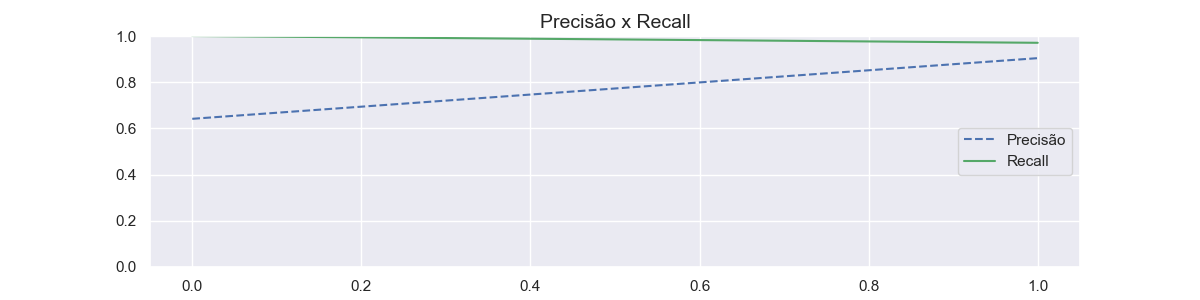
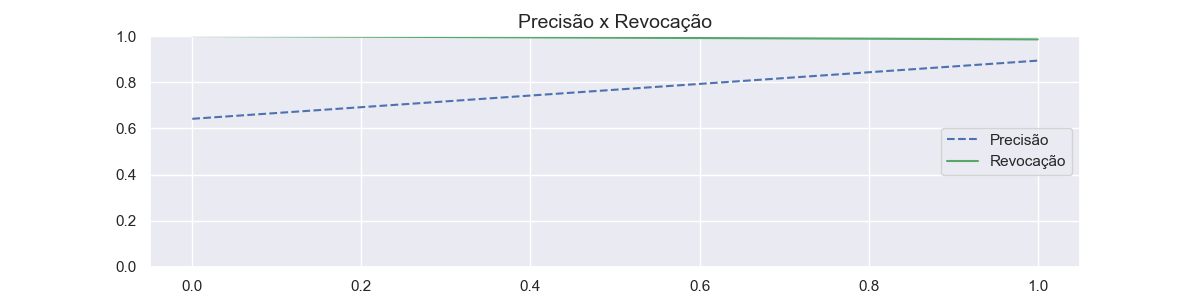
add R graphs for ep1

diff --git a/EP3/MainEP3.py b/EP3/MainEP3.py
@@ -74,8 +74,8 @@ def init_mlp(neuronio, taxa, epoca, early_stopping=False):
     predictions = mlp_model.predict(test_df)
     print("RESULTADOS:\n")
     print(predictions)
-    accuracy = metrics.accuracy_score(test_targets, predictions)
-    print(f'ACURACIA: {accuracy}\n')
+    # accuracy = metrics.accuracy_score(test_targets, predictions)
+    # print(f'ACURACIA: {accuracy}\n')
 
     #sys.stdout.close()
     return mlp_model
@@ -94,8 +94,8 @@ def generate_final_graphs(predictions):
     sns.heatmap(metrics.confusion_matrix(test_targets, predictions), annot=True,
                 ax=ax, fmt='d', cmap='Reds')
     ax.set_title("Matriz de Confusão", fontsize=18)
-    ax.set_ylabel("True label")
-    ax.set_xlabel("Predicted Label")
+    ax.set_ylabel("Rótulo Verdadeiro")
+    ax.set_xlabel("Rótulo Previsto")
     plt.tight_layout()
     plt.savefig(f"results\\graphs\\best_mlp_confusion_matrix.png")
 
@@ -103,17 +103,17 @@ def generate_final_graphs(predictions):
     precisions, recalls, thresholds = metrics.precision_recall_curve(test_targets, predictions)
     fig2, ax2 = plt.subplots(figsize=(12, 3))
     plt.plot(thresholds, precisions[:-1], 'b--', label='Precisão')
-    plt.plot(thresholds, recalls[:-1], 'g-', label='Recall')
-    plt.xlabel('Threshold')
+    plt.plot(thresholds, recalls[:-1], 'g-', label='Revocação')
+    plt.xlabel('Limiar de Decisão')
     plt.legend(loc='center right')
     plt.ylim([0, 1])
-    plt.title('Precisão x Recall', fontsize=14)
+    plt.title('Precisão x Revocação', fontsize=14)
     plt.savefig(f"results\\graphs\\best_mlp_precision_recall.png")
 
     #  ROC
     fpr, tpr, thresholds = metrics.roc_curve(test_targets, predictions)
     fig, ax = plt.subplots(figsize=(12, 4))
-    plt.plot(fpr, tpr, linewidth=2, label='Logistic Regression')
+    plt.plot(fpr, tpr, linewidth=2, label='Regressão Logística')
     plt.plot([0, 1], [0, 1], 'k--')
     plt.axis([0, 1, 0, 1])
     plt.xlabel('Taxa de Falsos Positivos')
@@ -121,6 +121,13 @@ def generate_final_graphs(predictions):
     plt.legend(loc='lower right')
     plt.title('Curva ROC', fontsize=14)
     plt.savefig(f"results\\graphs\\best_mlp_roc_curve.png")
+
+    # Acurácia, comparativo com a acuracia do classification_report
+    accuracy = metrics.accuracy_score(test_targets, predictions)
+    print(f'ACURACIA: {accuracy}\n')
+
+    report = metrics.classification_report(test_targets, best_mlp_predictions)
+    print(f'Relatório de Classificação\n{report}\n')
 
 
 # generate_csv()
@@ -146,20 +153,21 @@ for neuronio in neuronios:
                 best_mlp = mlp_model
 
 
-graph_title = f"best_mlp_loss_graph_{best_config[0]}_{best_config[1]}_{best_config[2]}"
+graph_title = f"melhor_mlp_gráfico_erro_{best_config[0]}_{best_config[1]}_{best_config[2]}"
 generate_loss_graph(best_mlp, graph_title)
 best_mlp_predictions = best_mlp.predict(test_df)
 
 # abaixo executamos o MLP com a estratégia de early stopping para a melhor
 # configuração encontrada entre cada combinação de hiperparâmetros
 best_mlp_early_stopping = init_mlp(best_config[0], best_config[1], best_config[2], True)
-es_graph_title = f"es_best_mlp_loss_graph_{best_config[0]}_{best_config[1]}_{best_config[2]}"
+es_graph_title = f"es_melhor_mlp_gráfico_erro_{best_config[0]}_{best_config[1]}_{best_config[2]}"
 generate_loss_graph(best_mlp_early_stopping, es_graph_title)
 
 # os gráficos são gerados para comparar a função do erro entre os dois modelos
 
-report = metrics.classification_report(test_targets, best_mlp_predictions)
-print(f'Relatório de Classificação\n{report}\n')
+# report = metrics.classification_report(test_targets, best_mlp_predictions)
+# print(f'Relatório de Classificação\n{report}\n')
+
 generate_final_graphs(best_mlp_predictions)
 
 end = datetime.datetime.now()
